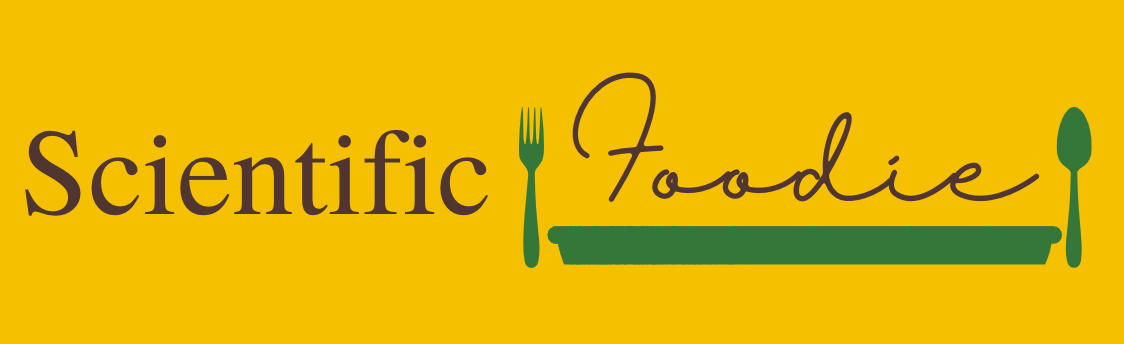
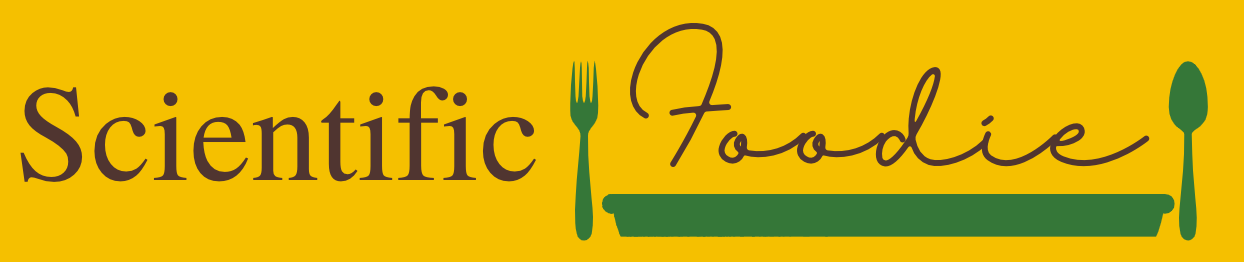
Resize header image

diff --git a/src/components/Header.js b/src/components/Header.js
@@ -4,7 +4,7 @@ import headerImg from "../images/newHeader.png"
 function Header() {
   return (
     <div className="header">        
-      <img src={headerImg} alt="headerImg"/>
+      <img id="headerImg" src={headerImg} alt="headerImg"/>
     </div>
   );
 }

diff --git a/src/index.css b/src/index.css
@@ -8,10 +8,15 @@ body {
   font-size: 2em;
 }
 
+#headerImg {
+  width: 400px;
+  height: auto;
+  margin: 1.5rem;
+}
 
 .navBar {
   text-align: center;
-  margin: 1rem
+  margin: 1.5rem;
 }
 
 nav a {
